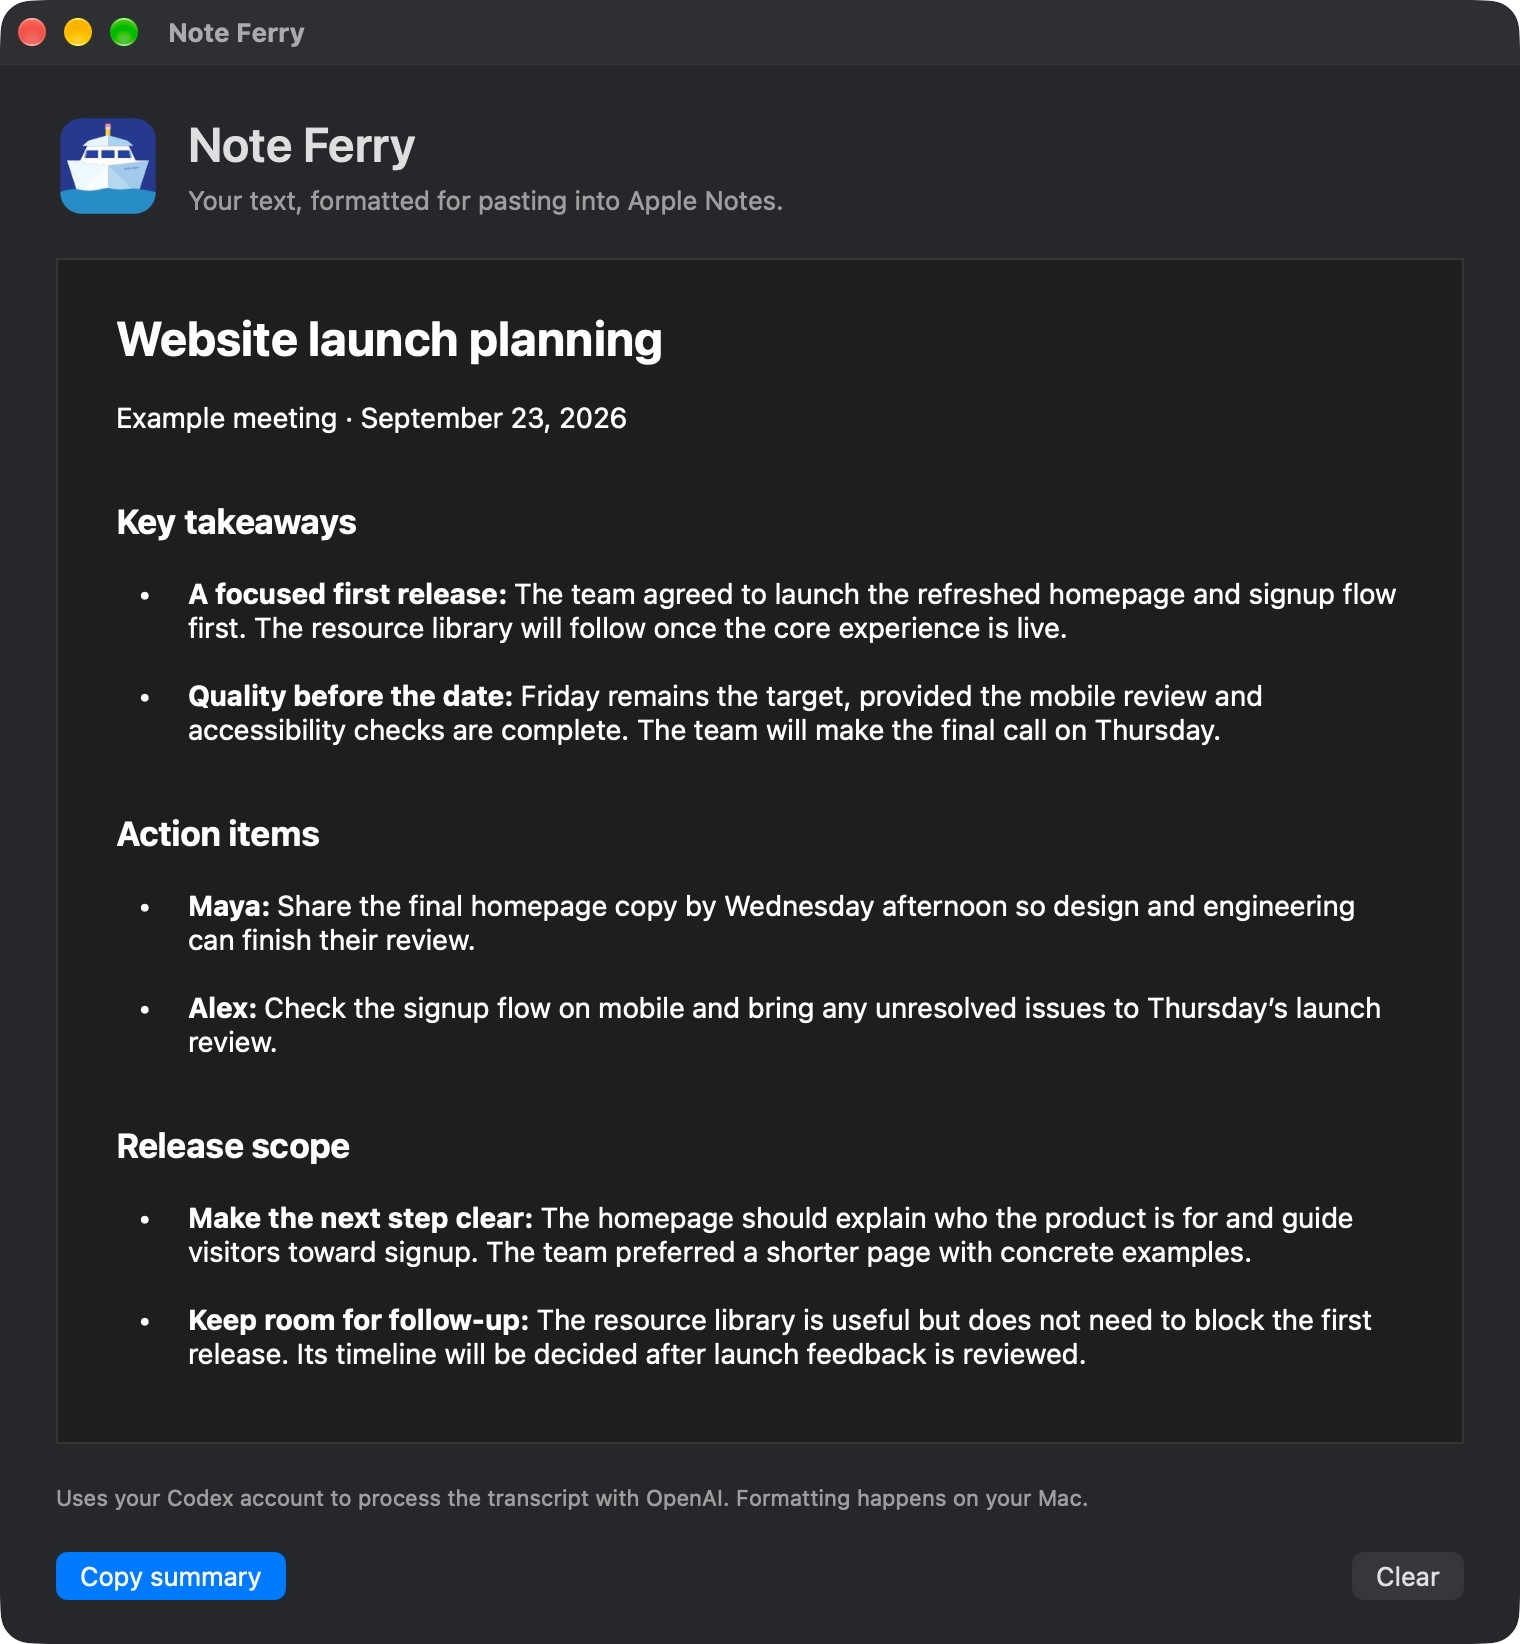
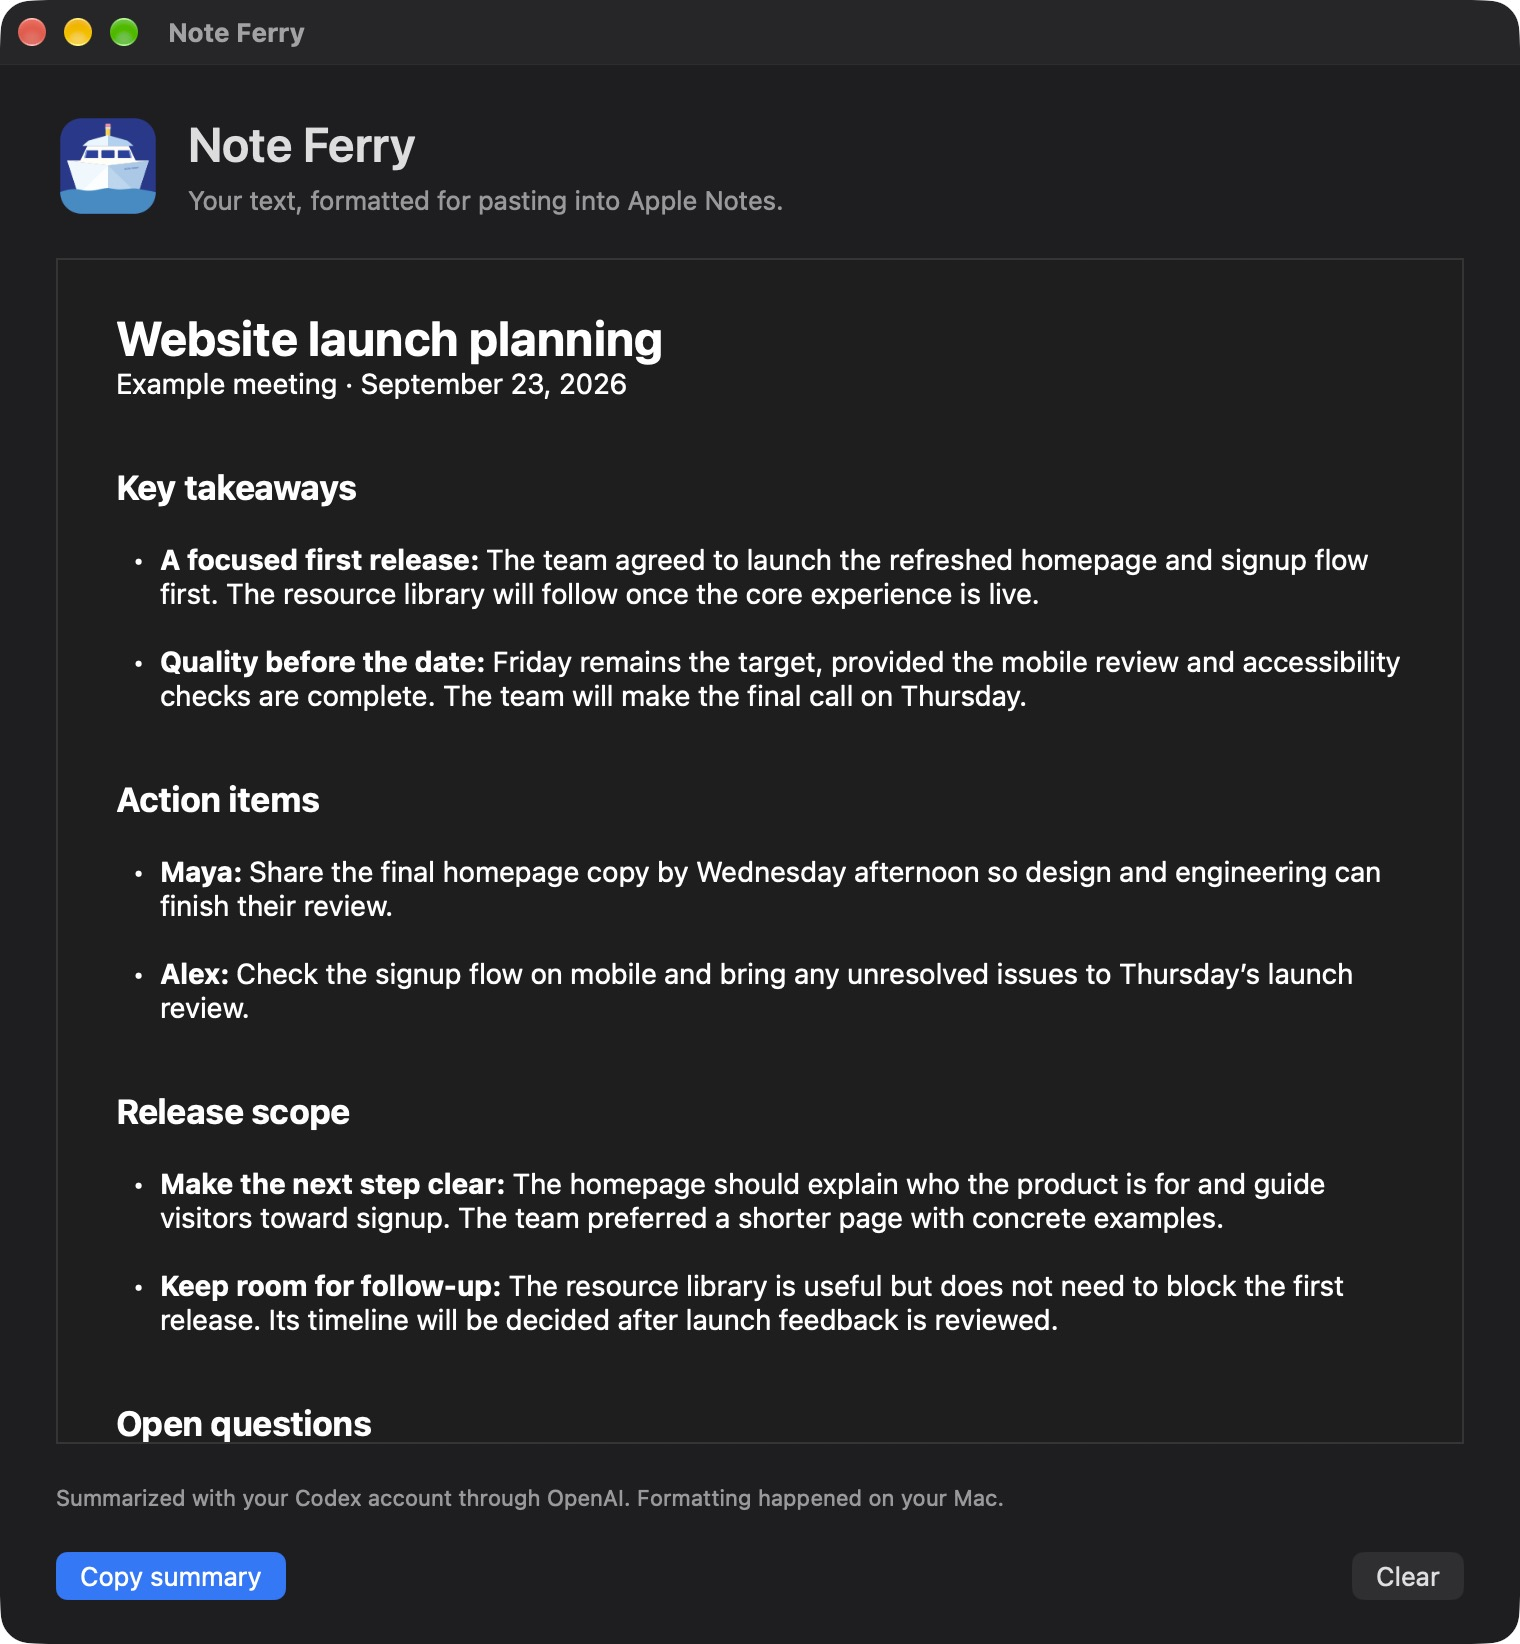
Refresh README previews and tighten summary title spacing

diff --git a/Sources/Core.swift b/Sources/Core.swift
@@ -81,7 +81,6 @@ enum NoteRenderer {
             }
         }
         append(clean(note.title) + "\n", font: .boldSystemFont(ofSize: 24))
-        append("\n")
         if !note.subtitle.isEmpty { append(clean(note.subtitle) + "\n") }
         section("Key takeaways", note.takeaways)
         section("Action items", note.actions)

diff --git a/README.md b/README.md
@@ -8,9 +8,13 @@ Note Ferry is a small native macOS app that formats text for Apple Notes and put
 
 You choose where to paste. Note Ferry never creates or edits an Apple Note.
 
-<img src="docs/images/app.jpg" width="760" alt="Note Ferry showing a fictional website launch meeting, with spaced bullet points, key takeaways, action items, and a Copy summary button">
+<img src="docs/images/app.jpg" width="760" alt="Note Ferry showing a fictional website launch summary with bold headings, spaced bullet points, key takeaways, action items, and a Copy summary button">
 
-*A sample summary with takeaways, action items, and formatting ready for Apple Notes.*
+*A sample rich-text summary with headings, takeaways, and action items, ready for Apple Notes.*
+
+<img src="docs/images/app-controls.jpg" width="760" alt="Note Ferry input controls showing Format only, Summarize &amp; format, and Codex selected as the summarizer">
+
+*Before processing, choose **Summarize & format** with **Codex**, or **Format only** to keep your wording.*
 
 ## Why Note Ferry?
 
